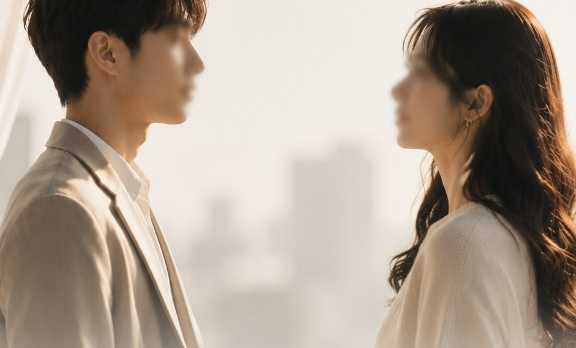
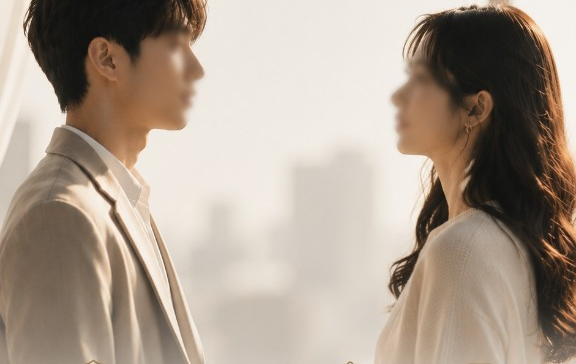
fix: Landing 人像改全寬融合，移除小框感
背景改為全寬絕對定位並以漸層融入米色底，重新裁切男女對視素材。

diff --git a/src/screens/LandingScreen.tsx b/src/screens/LandingScreen.tsx
@@ -11,6 +11,7 @@ interface Props {
 const SERIF = '"Noto Serif TC", "Songti TC", "STSong", "Georgia", serif'
 const GOLD = '#A8884E'
 const GOLD_LIGHT = '#C4A574'
+const PAGE_BG = '#faf7f2'
 const LANDING_COUPLE_BG = '/assets/landing-couple-bg.png'
 
 const FEATURES = [
@@ -38,7 +39,31 @@ const FEATURES = [
 
 export default function LandingScreen({ onStart, onOpenPaymentInfo, authNotice }: Props) {
   return (
-    <div className="min-h-dvh overflow-x-hidden bg-[#faf7f2] text-[#4a4035]">
+    <div className="relative min-h-dvh overflow-x-hidden" style={{ backgroundColor: PAGE_BG }}>
+      {/* 全寬背景人像：與設計稿相同，融進頁面而非小框 */}
+      <div
+        className="pointer-events-none absolute inset-x-0 top-[27%] h-[min(46vw,15rem)] min-h-[12rem] sm:h-[15rem]"
+        aria-hidden
+      >
+        <img
+          src={LANDING_COUPLE_BG}
+          alt=""
+          className="absolute inset-0 h-full w-full scale-[1.06] object-cover object-center"
+        />
+        <div
+          className="absolute inset-0"
+          style={{
+            background: `linear-gradient(90deg, ${PAGE_BG} 0%, transparent 12%, transparent 88%, ${PAGE_BG} 100%)`,
+          }}
+        />
+        <div
+          className="absolute inset-0"
+          style={{
+            background: `linear-gradient(180deg, ${PAGE_BG} 0%, rgba(250,247,242,0.35) 18%, transparent 42%, rgba(250,247,242,0.45) 78%, ${PAGE_BG} 100%)`,
+          }}
+        />
+      </div>
+
       <div className="relative z-10 mx-auto flex min-h-dvh max-w-md flex-col px-5 pb-[max(1.75rem,env(safe-area-inset-bottom))] pt-safe">
         {authNotice ? (
           <div
@@ -73,7 +98,7 @@ export default function LandingScreen({ onStart, onOpenPaymentInfo, authNotice }
           initial={{ opacity: 0, y: 12 }}
           animate={{ opacity: 1, y: 0 }}
           transition={{ delay: 0.08, duration: 0.5 }}
-          className="mt-8 text-center"
+          className="relative z-10 mt-8 text-center"
         >
           <h1
             className="text-[clamp(1.65rem,6.2vw,2rem)] font-normal leading-[1.45] tracking-[0.01em] text-[#3f372f]"
@@ -91,36 +116,15 @@ export default function LandingScreen({ onStart, onOpenPaymentInfo, authNotice }
           </p>
         </motion.div>
 
-        {/* 中段男女對視背景（設計稿同款） */}
-        <motion.div
-          initial={{ opacity: 0 }}
-          animate={{ opacity: 1 }}
-          transition={{ delay: 0.14, duration: 0.5 }}
-          className="relative mx-[-0.25rem] mt-5 h-[clamp(10.5rem,32vw,13.5rem)] overflow-hidden"
-          aria-hidden
-        >
-          <img
-            src={LANDING_COUPLE_BG}
-            alt=""
-            className="absolute inset-0 h-full w-full object-cover object-center"
-          />
-          <div
-            className="absolute inset-0"
-            style={{
-              background:
-                'linear-gradient(180deg, rgba(250,247,242,0.72) 0%, rgba(250,247,242,0.08) 22%, rgba(250,247,242,0.05) 55%, rgba(250,247,242,0.55) 100%)',
-            }}
-          />
-        </motion.div>
-
-        <div className="flex-1 min-h-2" aria-hidden />
+        {/* 保留給背景人像的垂直空間 */}
+        <div className="h-[clamp(10rem,32vw,13rem)] shrink-0" aria-hidden />
 
         {/* 四大特色 */}
         <motion.section
           initial={{ opacity: 0, y: 14 }}
           animate={{ opacity: 1, y: 0 }}
           transition={{ delay: 0.18, duration: 0.45 }}
-          className="grid grid-cols-4 gap-2 px-0.5"
+          className="relative z-10 grid grid-cols-4 gap-2 px-0.5"
         >
           {FEATURES.map(({ icon: Icon, title, desc }, i) => (
             <motion.div
@@ -149,12 +153,14 @@ export default function LandingScreen({ onStart, onOpenPaymentInfo, authNotice }
           ))}
         </motion.section>
 
+        <div className="min-h-4 flex-1" aria-hidden />
+
         {/* CTA */}
         <motion.div
           initial={{ opacity: 0, y: 16 }}
           animate={{ opacity: 1, y: 0 }}
           transition={{ delay: 0.32, duration: 0.4 }}
-          className="mt-8"
+          className="relative z-10 mt-6"
         >
           <motion.button
             type="button"
@@ -183,7 +189,7 @@ export default function LandingScreen({ onStart, onOpenPaymentInfo, authNotice }
           initial={{ opacity: 0 }}
           animate={{ opacity: 1 }}
           transition={{ delay: 0.42, duration: 0.4 }}
-          className="mt-5 flex items-center justify-center gap-1.5 text-[10px] text-[#9a8d7e]"
+          className="relative z-10 mt-5 flex items-center justify-center gap-1.5 text-[10px] text-[#9a8d7e]"
         >
           <Lock className="h-3 w-3 shrink-0" strokeWidth={2} />
           <span>我們承諾保護你的隱私與資料安全</span>
